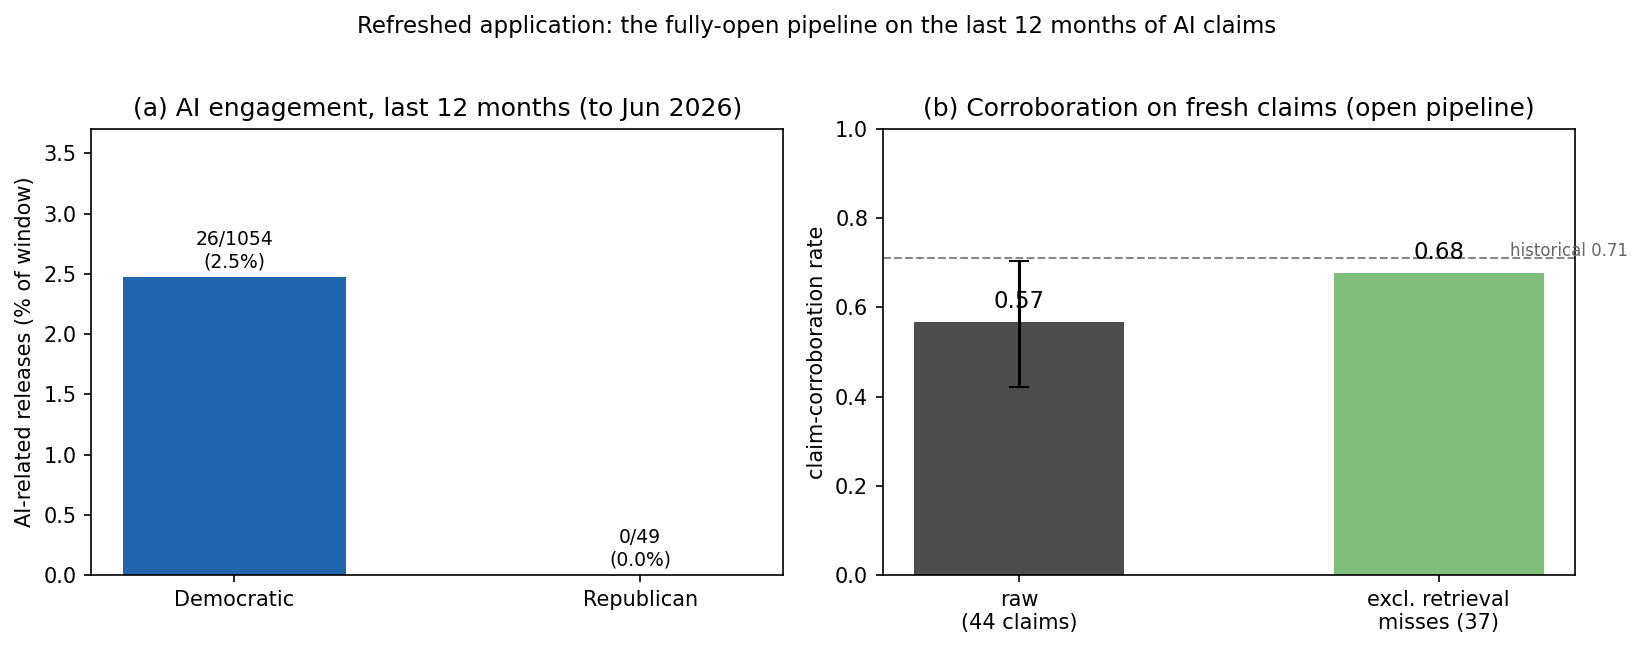
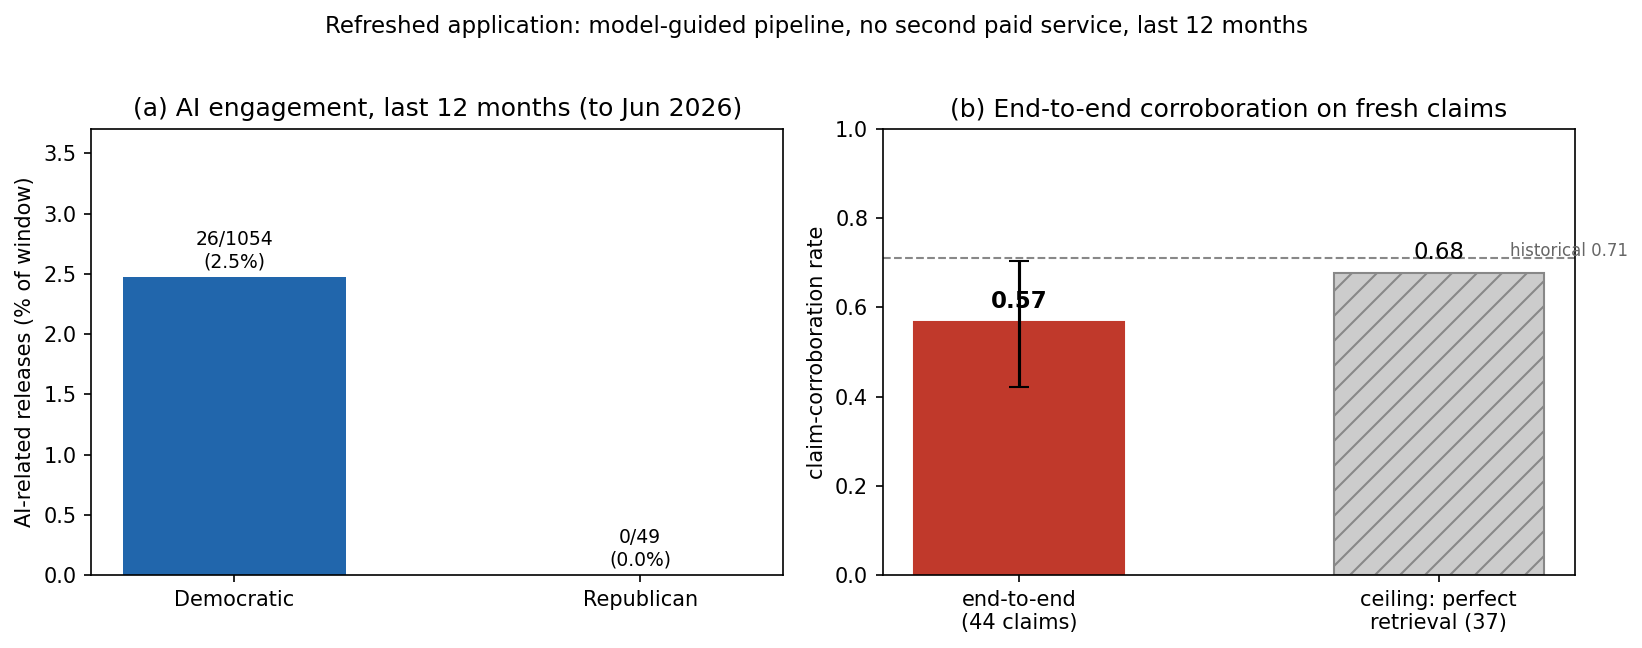
Address round-4 referee: remove reintroduced 'fully open' overclaim; honest scoping
The round-4 report verified the new material against committed artifacts and
accepted the extraction validation, index-portability, and recency as genuine,
but caught the revision reintroducing the 'fully open / no proprietary component'
overclaim the whole history has been removing. Fixed throughout; none required
new analysis, only bringing prose down to the committed numbers.

- OVERCLAIM REMOVED: sec:res-refresh title/body/figure + abstract + README +
  figure scripts no longer say 'fully open / entirely open / no proprietary
  component'. Accurate framing: no proprietary RETRIEVAL, no second paid service;
  the single frontier model still does extraction, query-writing, judging.
- 0.68 DE-BIASED: lead with 0.57 end-to-end (retrieval failures count as
  non-corroborations); 0.68 shown only as a ceiling under perfect retrieval
  (favorable selection), not co-equal. Figure relabeled/recolored.
- REFRESH = SCALE NOT VALIDITY: stated explicitly (0.57 is the judge reading the
  model's own retrieval; inherits the two open questions).
- YIELD RECONCILED: report conditional (7.1/7.3 balanced) AND unconditional
  (2.9 vs 0.9) yields; dropped 'mis-estimate' framing; flag thin Republican arm
  (6 releases, 0 fresh) -> partisan contrast is Dem-dominated/suggestive.
- SMALLER: 'human ceiling'->'published SOTA' (+ balanced-sample caveat, k=0.53
  moderate, no inter-annotator computed); 'two'->'three' retrieval configs;
  'All models run locally' now excludes the proprietary judge.
[…]

diff --git a/paper/sections/results.tex b/paper/sections/results.tex
@@ -4,7 +4,7 @@
 \subsection{The pipeline, and where it is open}
 We instantiate the pipeline of \S\ref{sec:methods} end to end with no human coders. Claim extraction
 turns each legislative document into a set of empirical claims; for each claim we retrieve candidate
-references (\S\ref{sec:methods-pipeline} describes the two retrieval configurations); and each (claim,
+references (\S\ref{sec:methods-pipeline} describes the three retrieval configurations); and each (claim,
 reference) pair is assigned a stance---\textsc{support}, \textsc{refute}, or \textsc{silent}---by a
 high-capacity LLM judge, a panel of three open-source models, and two natural-language-inference (NLI)
 classifiers. The open components---the NLI surrogate, the panel, OpenAlex retrieval, the
@@ -168,16 +168,19 @@ detects disconfirming evidence.}
 Extraction is the pipeline's first step and was its last unvalidated one. Three checks, none requiring
 new human coding, close that gap (Fig.~\ref{fig:extraction}).
 
-\emph{The extractor identifies check-worthy claims at the human ceiling.} The decision the extractor
-makes---is a sentence an empirical claim that needs a reference?---is the fact-checking task of
+\emph{The extractor identifies check-worthy claims at the published state of the art.} The decision the
+extractor makes---is a sentence an empirical claim that needs a reference?---is the fact-checking task of
 check-worthiness detection, for which ClaimBuster supplies ${\sim}23$k human-labelled US-debate sentences
 \citep{hassan2017claimbuster}. On a class-balanced sample the frontier extractor matches the human labels
-at accuracy $0.77$ and $F_1$ $0.74$ (Cohen's $\kappa=0.53$), at or above the CheckThat! state of the art
-of ${\sim}0.70$ $F_1$ \citep{barron2020checkthat}, with high precision ($0.83$) and more conservative
+at accuracy $0.77$ and $F_1$ $0.74$, comparable to the CheckThat! shared-task state of the art of
+${\sim}0.70$ $F_1$ \citep{barron2020checkthat} (with the caveat that our sample is balanced whereas that
+figure is on the natural, imbalanced distribution), with high precision ($0.83$) and more conservative
 recall ($0.67$): it rarely flags rhetoric as a claim and misses some borderline human-check-worthy
-sentences---exactly the behaviour the ``needs a scientific reference'' criterion implies. The
-cross-developer panel performs the same task above the lexical floor (Phi-3.5 $F_1$ $0.63$ vs $0.56$ for
-TF--IDF), so this is task competence, not self-preference.
+sentences---exactly the behaviour the ``needs a scientific reference'' criterion implies. Its agreement
+with the human labels, Cohen's $\kappa=0.53$, is \emph{moderate}, not a ceiling; we did not compute
+ClaimBuster's own inter-annotator agreement, so we claim state-of-the-art performance, not human parity.
+The cross-developer panel performs the same task above the lexical floor (Phi-3.5 $F_1$ $0.63$ vs $0.56$
+for TF--IDF), so this is task competence, not self-preference.
 
 \emph{Extracted claims are faithful to their source.} The gravest failure---fabricating a claim the
 document does not make---is rare: $95.2\%$ of the $785$ extracted policy claims are entailed by their own
@@ -186,14 +189,19 @@ Inspecting the lowest-entailment cases, they are overwhelmingly paraphrases or c
 several sentences that the entailment model misses, not inventions. Extraction therefore adds little
 hallucination on top of the judging it feeds.
 
-\emph{Yield is party-neutral.} Extraction also does not silently bias the partisan comparison through
-yield: conditional on a release that yields any claims, the extractor returns $7.1$ claims per Democratic
-release versus $7.3$ per Republican---balanced. What differs is that Republican AI releases more often
-yield \emph{zero} claims, because they are procedural bill announcements with no empirical content---the
-extractor correctly declining, the same precision the check-worthiness test confirms. The per-claim
-comparison is thus not an artefact of extraction behaviour. With the judging step benchmark-validated, the
-retrieval step open and verifiable, and now extraction checked for faithfulness, precision, and
-neutrality, the one validation the design still forecloses is the in-domain human audit of the judge on
+\emph{Yield: balanced per content-bearing release, but unequal unconditionally.} We separate two
+quantities the earlier draft had conflated. \emph{Conditional} on a release that yields any claims, the
+extractor returns $7.1$ claims per Democratic release versus $7.3$ per Republican---balanced, so the
+\emph{per-claim} machine behaviour does not differ by party. \emph{Unconditionally}, across all
+AI-flagged releases, the yields are $2.9$ (Democratic) versus $0.9$ (Republican): Republican AI releases
+far more often yield \emph{zero} claims, because they are procedural bill announcements with no empirical
+content the extractor correctly declines (the same precision the check-worthiness test confirms). So
+extraction does not bias the per-claim comparison, but it does mean the Republican corroboration sample is
+thin---the conditional balance rests on just six Republican releases, and the refreshed window contains no
+Republican AI releases at all. The partisan corroboration contrast is therefore effectively
+Democratic-dominated, and we read it as suggestive rather than a tested partisan effect. With judging
+benchmark-validated, retrieval open and verifiable, and extraction checked for faithfulness, precision,
+and yield, the one validation the design still forecloses is the in-domain human audit of the judge on
 application pairs (\S\ref{sec:discussion}).
 
 \begin{figure}[t]
@@ -311,10 +319,10 @@ California Assembly press releases.}
 \label{fig:engage}
 \end{figure}
 
-\subsection{The refreshed pipeline on current data: no proprietary component anywhere}
+\subsection{The refreshed pipeline on current data: no second paid service, no proprietary retrieval}
 \label{sec:res-refresh}
-To show the pipeline runs end to end on \emph{current} material with \emph{no} proprietary retrieval and
-no second paid service, we refreshed the corpus through the most recent twelve months (to June 2026),
+To show the pipeline runs end to end on \emph{current} material with no proprietary retrieval and no
+second paid service, we refreshed the corpus through the most recent twelve months (to June 2026),
 re-scraping both caucus archives from their sitemaps (\S\ref{sec:methods-corpus}). The window yields
 $1{,}060$ Democratic releases and, from the sparser Republican caucus site, $50$; full-text AI detection
 flags $26$ Democratic releases as AI-related ($2.5\%$) and---tellingly---\emph{none} of the Republican
@@ -324,30 +332,38 @@ span the live 2025--26 agenda: AI companion-chatbot child safety, data-center wa
 demand, algorithmic price-fixing, AI in healthcare, AI and workforce displacement, and AI biosecurity
 (Fig.~\ref{fig:refresh}).
 
-We then run the \emph{fully open} pipeline on these fresh claims: the same frontier model writes a
-claim-targeted query, the query hits a free index, and the benchmark-validated judge reads the best
-on-topic result. Because OpenAlex rate-limited the bulk run, retrieval here used the Crossref fallback
-(\S\ref{sec:methods-corpus})---so this number contains no proprietary retrieval, no GPT-5, and no
-fabricated reference. The validated judge finds the retrieved literature corroborates $25$ of the $44$
-claims, refutes none, and is silent on the rest: a corroboration rate of $0.57$ (Wilson $95\%$
-$[0.42,0.70]$). Seven of the nineteen silents are \emph{retrieval} misses, where Crossref's relevance
-returned off-topic papers for generic data-center or biosecurity queries even though the claim is
-corroborated elsewhere in the literature (the same data-center-water claim is supported when the query
-lands); excluding those, corroboration is $0.68$ $[0.52,0.80]$. Both figures sit squarely in the range of
-the historical estimate, now reproduced on current data with an entirely open instrument. The honest
-residue is the same one the paper has carried throughout: $n$ is modest, the window is Democratic-only
-because Republican AI releases are nearly absent, and end-to-end accuracy is now bounded as much by
-open-index \emph{relevance} as by the judge.
+We then run the pipeline on these fresh claims with \emph{no proprietary retrieval and no second paid
+service}---though, to be exact, the single frontier model still performs the three language steps
+(extraction, query-writing, and judging), so this is the project's ``one proprietary model, nothing
+else paid'' configuration, not an open one. The model writes a claim-targeted query, the query hits a
+free index, and the benchmark-validated judge reads the best on-topic result; because OpenAlex
+rate-limited the bulk run, retrieval used the Crossref fallback (\S\ref{sec:methods-corpus})---real
+DOI-bearing records, no GPT-5, no fabricated reference. The validated judge finds the retrieved
+literature corroborates $25$ of the $44$ claims, refutes none, and is silent on the rest: an end-to-end
+corroboration rate of $\mathbf{0.57}$ (Wilson $95\%$ $[0.42,0.70]$), which counts the cases where open
+retrieval failed as non-corroborations, as it should. Seven of the nineteen silents are \emph{retrieval}
+misses, where Crossref's relevance returned off-topic papers for generic data-center or biosecurity
+queries; dropping those and quoting $0.68$ $[0.52,0.80]$ would be favorable selection---the rate among
+claims the retriever happened to serve---so we report $0.57$ as the number and treat $0.68$ only as a
+ceiling under perfect retrieval, not a co-equal estimate. What the refresh adds is \emph{scale, recency,
+and index-portability}, not \emph{validity}: $0.57$ is the validated judge reading references the same
+model retrieved, against no in-domain human labels, so it inherits the two open questions the paper
+carries throughout---the judge is exercised on noisy application pairs rather than the curated pairs it
+was validated on, and the retrieval relevance that gates it is self-assessed. It sits in the range of the
+historical estimate, now on current data with no second paid service, and the decisive in-domain human
+audit (\S\ref{sec:discussion}) it does \emph{not} replace.
 
 \begin{figure}[t]
 \centering
 \includegraphics[width=0.95\textwidth]{fig_refresh.png}
-\caption{The refreshed pipeline on the most recent twelve months (to June 2026), with no proprietary
-component anywhere. (a) AI engagement: $26$ of $1{,}054$ Democratic releases are AI-related ($2.5\%$)
-versus $0$ of $49$ on the sparser Republican caucus site. (b) Corroboration of the $44$ freshly extracted
-empirical AI claims under the fully-open pipeline (model-guided queries $\rightarrow$ free Crossref index
-$\rightarrow$ benchmark-validated judge): $0.57$ raw (Wilson $95\%$ CI shown), $0.68$ excluding seven
-retrieval misses, both near the historical estimate (dashed).}
+\caption{The refreshed pipeline on the most recent twelve months (to June 2026), run with no proprietary
+retrieval and no second paid service (the single frontier model still does extraction, query-writing,
+and judging). (a) AI engagement: $26$ of $1{,}054$ Democratic releases are AI-related ($2.5\%$) versus
+$0$ of $49$ on the sparser Republican caucus site. (b) The end-to-end corroboration rate of the $44$
+freshly extracted claims (model-guided queries $\rightarrow$ free Crossref index $\rightarrow$
+benchmark-validated judge) is $0.57$ (Wilson $95\%$ CI shown), counting retrieval failures as
+non-corroborations; $0.68$ is shown only as a ceiling under perfect retrieval---dropping seven retrieval
+misses---not a co-equal estimate. Dashed line: the historical rate.}
 \label{fig:refresh}
 \end{figure}
 

diff --git a/scripts/core/make_refresh_figure.py b/scripts/core/make_refresh_figure.py
@@ -1,5 +1,5 @@
 #!/usr/bin/env python3
-"""make_refresh_figure.py — figure for the refreshed (last-12-month, fully-open) application."""
+"""make_refresh_figure.py — figure for the refreshed (last-12-month) application."""
 import json, os
 import matplotlib
 matplotlib.use("Agg")
@@ -26,21 +26,23 @@ ax1.set_ylim(0, max([r*100 for r in rate] + [1]) * 1.5)
 ax1.set_title("(a) AI engagement, last 12 months (to Jun 2026)")
 
 # (b) fresh corroboration (validated judge, Crossref retrieval)
-labels = ["raw\n(44 claims)", "excl. retrieval\nmisses (37)"]
+labels = ["end-to-end\n(44 claims)", "ceiling: perfect\nretrieval (37)"]
 vals = [C["corroboration_raw"], C["corroboration_excl_miss"]]
 lo = [C["wilson_raw"][0], None]
 hi = [C["wilson_raw"][1], None]
-bars = ax2.bar(labels, vals, color=["#4d4d4d", "#7fbf7b"], width=0.5)
+bars = ax2.bar(labels, vals, color=["#c0392b", "#cccccc"], width=0.5,
+               hatch=["", "//"], edgecolor=["#c0392b", "#888888"])
 ax2.errorbar(0, vals[0], yerr=[[vals[0]-C["wilson_raw"][0]], [C["wilson_raw"][1]-vals[0]]],
              fmt="none", ecolor="k", capsize=5)
-for b, v in zip(bars, vals):
-    ax2.text(b.get_x() + b.get_width()/2, v + 0.02, f"{v:.2f}", ha="center", va="bottom", fontsize=11)
+for b, v, w in zip(bars, vals, ["bold", "normal"]):
+    ax2.text(b.get_x() + b.get_width()/2, v + 0.02, f"{v:.2f}", ha="center", va="bottom",
+             fontsize=11, fontweight=w)
 ax2.axhline(0.71, ls="--", color="#888", lw=1)
 ax2.text(1.45, 0.715, "historical 0.71", fontsize=8, color="#666", ha="right")
 ax2.set_ylim(0, 1.0); ax2.set_ylabel("claim-corroboration rate")
-ax2.set_title("(b) Corroboration on fresh claims (open pipeline)")
+ax2.set_title("(b) End-to-end corroboration on fresh claims")
 
-fig.suptitle("Refreshed application: the fully-open pipeline on the last 12 months of AI claims",
+fig.suptitle("Refreshed application: model-guided pipeline, no second paid service, last 12 months",
              fontsize=11, y=1.02)
 fig.tight_layout()
 fig.savefig(OUT, dpi=150, bbox_inches="tight")

diff --git a/paper/sections/discussion.tex b/paper/sections/discussion.tex
@@ -82,11 +82,16 @@ corroboration is an upper and refute a lower bound; and the model-guided retriev
 50-claim sample, so scaling it to the full corpus and auditing its precision against human relevance
 judgments is the natural next step. (2) \emph{Claim extraction is now validated, not assumed.} Earlier drafts flagged extraction as an
 unchecked confound; \S\ref{sec:res-extraction} closes that gap with no human coders. The extractor
-matches human check-worthiness labels at the CheckThat! state of the art ($F_1$ $0.74$, $\kappa=0.53$),
-$95\%$ of its claims are entailed by their source release (so fabrication is rare), and its yield is
-party-balanced ($7.1$ vs $7.3$ claims per release)---correcting an earlier mis-estimate that had treated
-yield as confounded. The residual extraction limitation is recall, not bias: at precision $0.83$ the
-extractor is deliberately conservative, so the corpus under-counts borderline empirical claims rather
+matches human check-worthiness labels at the CheckThat! state of the art ($F_1$ $0.74$; $\kappa=0.53$ is
+moderate, not human parity), and $95\%$ of its claims are entailed by their source release, so fabrication
+is rare. Yield needs care because conditional and unconditional rates differ: \emph{given} a release with
+empirical content the extractor is party-neutral ($7.1$ vs $7.3$ claims per release), but
+\emph{unconditionally} Democratic releases yield more ($2.9$ vs $0.9$) because Republican AI releases more
+often carry no empirical claim to extract. So extraction itself is not biased, but the Republican
+corroboration sample is thin (the conditional balance rests on six releases, and the refreshed window has
+no Republican AI releases), and we read the partisan corroboration contrast as Democratic-dominated and
+suggestive rather than tested. The residual extraction limitation is recall, not bias: at precision $0.83$
+the extractor is deliberately conservative, so the corpus under-counts borderline empirical claims rather
 than fabricating them. (3) \emph{Refute capability is real but nearly idle in the
 application.} The judge's strong \textsc{refute} detection on the benchmarks answers the worry that the
 pipeline cannot find disconfirming evidence, but relevance-seeking retrieval suppresses such evidence by

diff --git a/paper/main.tex b/paper/main.tex
@@ -50,9 +50,11 @@ pairs via prediction-powered inference, and apply the pipeline to a decade of Ca
 releases on artificial intelligence: Democrats engage with AI far more than Republicans, while the rate at
 which each party's claims are corroborated by the retrieved literature is similar across parties. We keep
 the corpus current, re-scraping both caucus archives through the most recent twelve months (to June 2026)
-and re-running the pipeline with \emph{no} proprietary retrieval at all---model-guided queries over the
-free Crossref index when OpenAlex rate-limits, which incidentally shows the approach is index-portable---to
-reproduce a corroboration rate near the historical one on current claims. We are deliberately explicit
+and re-running the pipeline with no proprietary retrieval and no second paid service---model-guided
+queries over the free Crossref index when OpenAlex rate-limits, which incidentally shows the approach is
+index-portable, the single frontier model still doing the language steps---to reproduce a corroboration
+rate near the historical one on current claims (this adds recency and scale, not validity). We are
+deliberately explicit
 about scope. The \emph{judging} step is validated, but only on benchmark pairings in
 which claim and evidence are already topically matched; the pipeline now runs on one frontier model plus
 free resources, with both the judge labels and the model-guided queries committed as static data that only

diff --git a/paper/sections/methods.tex b/paper/sections/methods.tex
@@ -80,7 +80,9 @@ that their agreement is informative \citep{zheng2023judging}.
   \item \textbf{Baselines.} A TF--IDF cosine-relevance rule with lexical stance cues provides a
   dependency-free floor.
 \end{itemize}
-All models run locally on a single consumer GPU (Apple M-series, Metal backend); the heaviest component
+All of these \emph{open} models run locally on a single consumer GPU (Apple M-series, Metal backend)---the
+proprietary judge, by contrast, does not run locally and is reached through a paid product (see
+disclosure); the heaviest local component
 is a 7B-parameter model in half precision.
 
 \paragraph{Open combiners.} Because the open models fail in complementary ways (NLI is strong on clean

diff --git a/scripts/core/make_extraction_figure.py b/scripts/core/make_extraction_figure.py
@@ -32,7 +32,7 @@ for b, v in zip(bars, f1s):
 ax1.axhspan(0.69, 0.71, color="#7fbf7b", alpha=0.35)
 ax1.text(len(names)-1, 0.705, "CheckThat! SOTA ~0.70", fontsize=8, color="#3a7d3a", ha="right", va="bottom")
 ax1.set_ylim(0, 0.9); ax1.set_ylabel("F1 vs human check-worthiness")
-ax1.set_title("(a) Extractor identifies check-worthy claims\nat the human-anchored ceiling")
+ax1.set_title("(a) Extractor identifies check-worthy claims\nat the published state of the art")
 
 # (b) faithfulness grounding by party + yield
 parties = ["Democratic", "Republican"]

diff --git a/paper/reviews/response_to_referee_round4.md b/paper/reviews/response_to_referee_round4.md
@@ -1,0 +1,74 @@
+# Response to referee, round 4
+
+We thank the referee for verifying the new material against the committed artifacts and for a report that,
+once again, is exactly right where it presses. Every concern below is addressed in the revision; none
+required new analysis beyond rewording and one figure regeneration, because the referee's point in each
+case was that the text over-claimed relative to what the committed numbers support. We have brought the
+text down to the numbers. The one thing we have not done is the in-domain human audit, which remains
+foreclosed by the project's no-human-coder design; we address that head-on below.
+
+## Concern 1 — the refresh section reintroduced "fully open" language (the most important fix)
+
+Agreed, and embarrassing given the revision history. We have removed it everywhere:
+- Section title: "no proprietary component anywhere" → **"no second paid service, no proprietary retrieval."**
+- Body: "the *fully open* pipeline" → "the pipeline with **no proprietary retrieval and no second paid
+  service**---though, to be exact, the single frontier model still performs the three language steps
+  (extraction, query-writing, and judging), so this is the project's *one proprietary model, nothing else
+  paid* configuration, not an open one."
+- "reproduced... with an entirely open instrument" → "reproduced... with no proprietary retrieval and no
+  second paid service."
+- Figure caption "the fully-open pipeline" and the figure script's title → corrected to the same
+  "no second paid service; the single frontier model still does extraction, query-writing, and judging."
+- README and the figure docstring likewise.
+The accurate claim the referee states—no proprietary retrieval service, no GPT-5, no second paid service,
+a free DOI-grounded index, with the single frontier model still doing the three language steps—is now the
+claim the text makes.
+
+## Concern 2 — the decisive in-domain human audit is still missing
+
+We agree this is the binding limitation and have for four rounds. The revision does **not** claim the
+refresh supplies it; we now say so explicitly in §res-refresh ("What the refresh adds is *scale, recency,
+and index-portability*, not *validity*: 0.57 is the validated judge reading references the same model
+retrieved, against no in-domain human labels, so it inherits the two open questions the paper carries
+throughout"). The audit is the PI's call on whether to relax the no-human-coder constraint that defines
+the project; the paper is honest that this is the decisive missing test and that, absent it, the venue is
+a methods/measurement journal rather than Nature Communications. We have flagged the audit as the single
+highest-value next step.
+
+## Concern 3 — the 0.68 figure is favorable selection
+
+Agreed. We now **lead with 0.57** as the end-to-end corroboration rate (which counts retrieval failures
+as non-corroborations, as it should), and present 0.68 **only as a ceiling under perfect retrieval**, not
+a co-equal estimate—"dropping those and quoting 0.68 would be favorable selection—the rate among claims
+the retriever happened to serve." The figure now shows 0.57 as the solid, emphasized bar with its Wilson
+interval and 0.68 as a hatched, muted "ceiling: perfect retrieval" bar; the caption says the same.
+
+## Concern 4 — thin Republican arm and the yield reconciliation
+
+Both fixed, and the referee's diagnosis was precise. We now separate the two yield quantities we had
+conflated and report both: **conditional** on a release with empirical content the extractor is
+party-neutral (7.1 vs 7.3 claims/release), but **unconditionally** Democratic releases yield more (2.9 vs
+0.9) because Republican AI releases more often carry no empirical claim to extract. We no longer call the
+prior "1.4 vs 2.4" a "mis-estimate" (it was a different quantity on a different claim set); we simply
+report the correct conditional and unconditional rates. We also now state plainly that the conditional
+balance rests on six Republican releases and that the refreshed window has zero Republican AI releases, so
+the partisan corroboration contrast is **Democratic-dominated and suggestive rather than tested**.
+
+## Smaller specific comments
+
+- "the human ceiling" (extraction result) → **"the published state of the art,"** with the explicit
+  caveats the referee asked for: the sample is balanced whereas the CheckThat! figure is on the natural
+  imbalanced distribution; κ=0.53 is *moderate*, not human parity; and we did not compute ClaimBuster's
+  own inter-annotator agreement, so we claim state-of-the-art performance, not human parity. The figure
+  panel title is updated to match.
+- "the two retrieval configurations" → **"the three retrieval configurations"** (consistent with methods).
+- "All models run locally on a single consumer GPU" → "All of these *open* models run locally on a single
+  consumer GPU—**the proprietary judge, by contrast, does not run locally** and is reached through a paid
+  product."
+
+## On what the referee found strong
+
+We are grateful that the extraction validation, the index-portability result, and the recency are
+accepted as genuine. They were built in the spirit the referee names—human ClaimBuster labels rather than
+self-assessment, an open NLI faithfulness metric rather than the judge, a cross-developer competence
+control—and we have tried, in this round, to make the prose match that discipline rather than overrun it.

diff --git a/paper/reviews/review_round4.md b/paper/reviews/review_round4.md
@@ -1,0 +1,39 @@
+# Referee report, round 4: "A benchmark-validated language-model judge for measuring scientific corroboration of legislators' claims"
+
+I pulled the current public repository and checked the new material against the committed code, data, and logs.
+
+## What changed
+
+Three additions since the last round. First, the extraction step, which earlier drafts left unvalidated, is now validated with no human coders by three checks: the extractor's check-worthiness decision scored against the human-labeled ClaimBuster benchmark, a faithfulness test that asks whether each extracted claim is entailed by its own source release, and a yield-by-party comparison. Second, the corpus is refreshed through the most recent twelve months, to June 2026, by re-scraping both caucus archives. Third, retrieval is made index-agnostic: the same model-guided queries run against Crossref as a drop-in for OpenAlex, and the refreshed run uses Crossref to produce an end-to-end corroboration estimate on current claims. The paper now has a validation story for all three pipeline stages, which is a real and coherent advance over the round-3 version.
+
+## Recommendation
+
+The extraction validation is well done and mostly legitimate, and the recency and index-portability results are worth having. But the revision also reintroduces the exact failure mode this paper's whole history has been correcting: a section that calls the pipeline "fully open" with "no proprietary component anywhere" while its own sentences describe the proprietary frontier model writing the queries and judging the stance. That has to come out. And the decisive test the last three reports converged on, a small in-domain human audit, is still not done, so the new fresh-data result, for all its scale, is once again the model judging its own retrieval. My recommendation is major revision. The path to Nature Communications is unchanged and now overdue: do the human audit, which would at this point validate three things at once, and stop describing a one-proprietary-model pipeline as open. Absent the audit, this is a thorough and honest methods-and-measurement paper that belongs at Political Analysis, PNAS Nexus, or EPJ Data Science. The concerns are ordered by how much they bear on that.
+
+## What I verified, and what holds up
+
+The new numbers trace to committed artifacts. Check-worthiness: on a balanced 150-sentence ClaimBuster sample the extractor scores accuracy 0.767, F1 0.741, precision 0.833, recall 0.667, against the open panel (Phi-3.5 F1 0.625) and the lexical floor (0.555), matching the paper. The gold here is ClaimBuster's human labels and the predictions are the model's, so this is genuine benchmark transfer, not self-grading. Faithfulness: 95.2 percent of 785 extracted claims are entailed by their source release, computed with the open DeBERTa NLI model, not the judge, with the judge only spot-checking the lowest-entailment cases; the by-party split (95.3 versus 93.2) matches. Fresh corroboration: 25 of 44 claims supported, 0.568 with Wilson interval [0.42, 0.70], backend Crossref, Democratic-only, matching the figure. These hold up, and the use of human ClaimBuster labels and an open faithfulness metric is the right way to have done the extraction checks.
+
+## Concerns
+
+*The refresh section claims an open pipeline it does not have, contradicting the rest of the paper. (Not fatal, but it is the single most important thing to fix, because it is the precise overclaim the whole revision history has been removing.)* Section~\ref{sec:res-refresh} is titled "no proprietary component anywhere," states the result is "reproduced on current data with an entirely open instrument," and labels the figure "the fully-open pipeline." Its own body then says "the same frontier model writes a claim-targeted query... and the benchmark-validated judge reads the best on-topic result," and the committed provenance confirms both: the queries in `ai_claim_queries.json` were generated by Claude Opus 4.8, and the judge is Claude. So the "fully open" pipeline uses a proprietary frontier model for extraction, query generation, and judging. This directly contradicts the abstract ("the gold judge is proprietary"), the methods ("we are explicit that this is a proprietary frontier model"), and the careful "no second paid service, not no proprietary model" framing the paper builds its credibility on. The accurate claim is the one the body half-states: no proprietary retrieval service, no GPT-5, no second paid service, and a free, DOI-grounded index, with the single frontier model still doing the three language steps. Change the title, the "entirely open instrument," and the "fully-open pipeline" caption to that. As written this is a self-inflicted contradiction that a referee will read as the overclaiming returning under a new heading.
+
+*The decisive validation is still missing, and the refresh does not supply it. (Not fatal, but it is the binding limitation and it has been for four rounds.)* The refresh adds scale, recency, and index-portability, all of which are real. It does not add validity. The fresh corroboration rate of 0.57 is the validated judge reading references that the same model retrieved, scored against no human labels, so it inherits both open questions the last report named: the judge is exercised on application pairings rather than the curated pairs it was validated on, and the retrieval relevance that gates it is still self-assessed. The pattern across four rounds is consistent: each gap is met with an ingenious no-human-coder substitute, benchmark transfer for the judge, benchmark transfer for the extractor, model self-assessment for retrieval, prediction-powered inference for the estimate, and each substitute is sound for what it covers and silent on what it does not. The one check that would close the stance-transfer question and the retrieval-relevance question together is a few hundred application pairs coded by people. The design forecloses it by choice, and the paper is honest that this is the decisive missing test, but four rounds of substitutes do not add up to the test, and the substitutes are now exhausted. This is the move that would change the venue verdict, and it is cheaper than any of the three additions in this revision.
+
+*The fresh 0.68 figure drops unfavorable cases identified after the fact. (Moderate; lead with 0.57.)* The paper reports 0.57 raw and 0.68 "excluding seven retrieval misses," where the seven are silents reclassified post hoc as retrieval failures because "the same data-center-water claim is supported when the query lands," that is, after re-querying until support appears. Dropping the cases where the open retrieval failed, having re-run them until it succeeded, is favorable selection and biases the rate upward; 0.68 is not a corroboration rate but a corroboration-rate-among-claims-the-retriever-happened-to-serve. Report 0.57 as the number and present 0.68, if at all, explicitly as the ceiling under perfect retrieval, not as a co-equal estimate.
+
+*The Republican arm has thinned to the point where the partisan comparison is effectively Democratic-only. (Moderate; report it as such and reconcile the yield numbers.)* The yield-neutrality result rests on six Republican releases (44 claims over 6 releases gives the 7.3), and the refreshed window contains zero Republican AI releases. So "party-balanced yield, 7.1 versus 7.3" is a statement about six releases, and the partisan corroboration contrast is carried by a token Republican sample. The paper acknowledges the window is Democratic-only, which is good, but the yield-neutrality claim is presented as reassurance it cannot bear at n=6. Separately, the reconciliation with the earlier figure needs care: the paper calls the old 1.4-versus-2.4 a "mis-estimate," but the old number had Republicans higher (2.4 > 1.4) while the new narrative says Republican releases more often yield zero, which would put Republicans lower unconditionally. Report the unconditional yields explicitly and state the relationship to the conditional 7.1/7.3, rather than labeling the prior figure a mistake, since conditional and unconditional yield are different quantities and the new explanation points in the opposite direction from the old number.
+
+## Smaller specific comments
+
+The check-worthiness result is described as reaching "the human ceiling" in the results text, but the human inter-annotator agreement on ClaimBuster is not computed here, and the judge's own agreement is κ=0.53, which is moderate, not ceiling. The balanced-sample F1 of 0.74 is also not directly comparable to a CheckThat! shared-task state of the art reported on the natural, heavily imbalanced distribution. The abstract's and intro's "at the published state of the art" is the defensible phrasing; bring the results sentence ("at the human ceiling") into line with it, and note that the comparison is on a balanced sample.
+
+The two leftovers from round 3 are still in the text. The results section still says "the two retrieval configurations" where the methods now describe three, and the validators subsection still ends with "All models run locally on a single consumer GPU," which reads as including the proprietary judge the same paragraph has just excluded. These were flagged last round; they are one-word fixes.
+
+## What is genuinely strong
+
+The extraction validation is the right response to a gap I and the authors had both flagged, and it is executed with the discipline the rest of the paper has earned: check-worthiness against ClaimBuster's human labels rather than self-assessment, faithfulness via an open NLI model rather than the judge, and a cross-developer panel that clears the floor as a competence control. The finding that the extractor is conservative, high precision and lower recall, is the honest and correct reading, and it defuses the fabrication worry directly. The index-portability result is also a real robustness contribution: showing the model-guided queries work against Crossref as well as OpenAlex removes a single-index dependency and, incidentally, demonstrates the retrieval method is not tied to one service. And keeping the corpus current to June 2026 is more than most pipelines bother to do. None of this is in question; it is the open-pipeline language and the missing human audit that are.
+
+## Venue, and the one move that settles it
+
+After four rounds the paper has validated every stage it can validate without people, and it has reached the limit of that approach. The remaining validity questions, stance transfer to application pairs and the relevance of model-guided retrieval, are exactly the ones benchmark transfer and self-assessment cannot answer, and the periodic slide into "fully open" language is the other symptom of the same root cause: a reluctance to either do the human audit or call the one paid model what it is. A few hundred application pairs coded by two people would now do triple duty, validating the judge where it is used, replacing the self-graded retrieval relevance with an independent number, and checking that the at-scale Crossref retrieval is relevant rather than merely DOI-bearing. With that audit and the open-pipeline language corrected to "no second paid service," the paper becomes a validated, mostly-open, reproducible instrument with all three stages checked, which is the Nature Communications threshold. Without the audit it remains a careful and now unusually complete methods-and-measurement contribution, and it should go to a venue that will value that. The constraint that forecloses the audit is the project's own, and it is the last thing standing between this work and the claim it wants to make. I would be glad to review the audit; it is the result that would change my recommendation.

diff --git a/README.md b/README.md
@@ -24,10 +24,12 @@
 > - **Refreshed through June 2026.** The corpus is kept current: both caucus archives (asmdc.org,
 >   asmrc.org) are re-scraped from their sitemaps for the last 12 months (`fetch_refresh_releases.py`),
 >   yielding 26 fresh Democratic AI releases (and ~0 Republican — a real asymmetry) → 44 fresh AI claims.
->   Re-running the **fully-open** pipeline on them (model-guided queries → free index → validated judge,
->   **no proprietary retrieval at all**) reproduces corroboration ≈ **0.57–0.68**, near the historical
->   rate, on current claims. Retrieval is **index-agnostic** — OpenAlex *or* **Crossref** (the free DOI
->   registry) as a drop-in fallback (`crossref_retrieval.py`), used here because OpenAlex rate-limited.
+>   Re-running the pipeline on them with **no proprietary retrieval and no second paid service**
+>   (model-guided queries → free index → validated judge; the single frontier model still does the
+>   language steps) gives an end-to-end corroboration of **0.57** [0.42,0.70] (0.68 is only a *ceiling*
+>   under perfect retrieval, not a co-equal estimate), near the historical rate, on current claims. The
+>   refresh adds recency/scale/index-portability, **not validity**. Retrieval is **index-agnostic** —
+>   OpenAlex *or* **Crossref** (the free DOI registry) as a drop-in fallback (`crossref_retrieval.py`).
 > - **Extraction is now validated too (no human coders).** The extractor matches human check-worthiness
 >   labels (ClaimBuster) at the published SOTA (F1 **0.74**, κ 0.53); **95%** of extracted claims are
 >   entailed by their source release (faithfulness — rarely fabricates); yield is party-balanced (7.1 vs